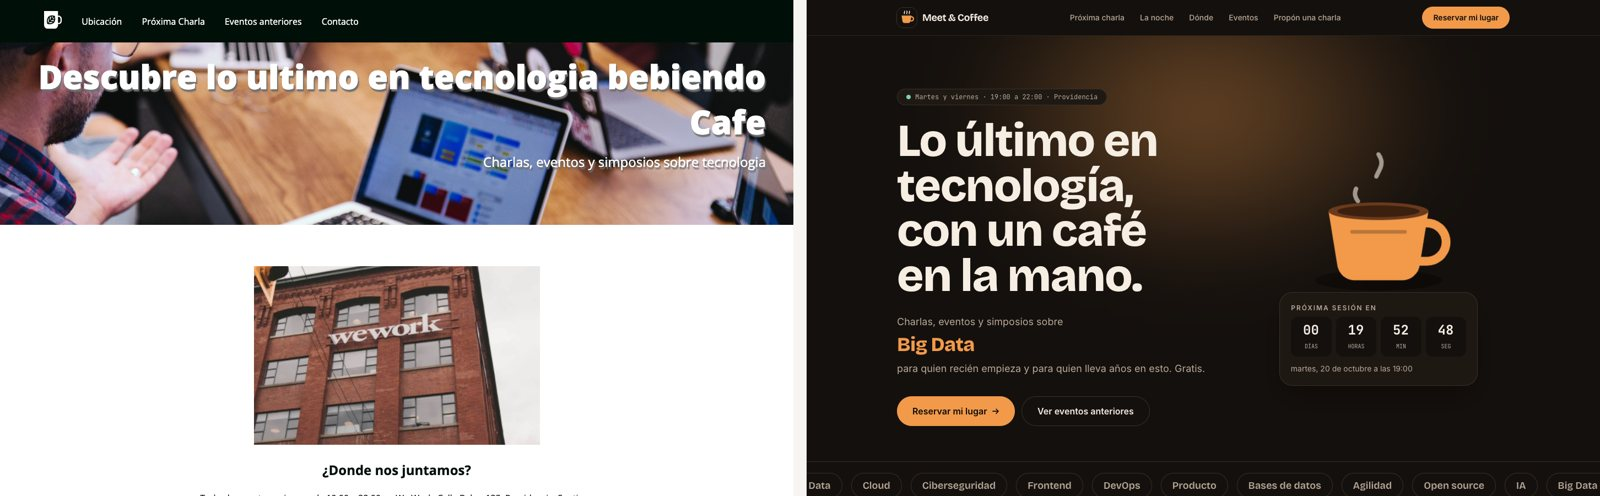
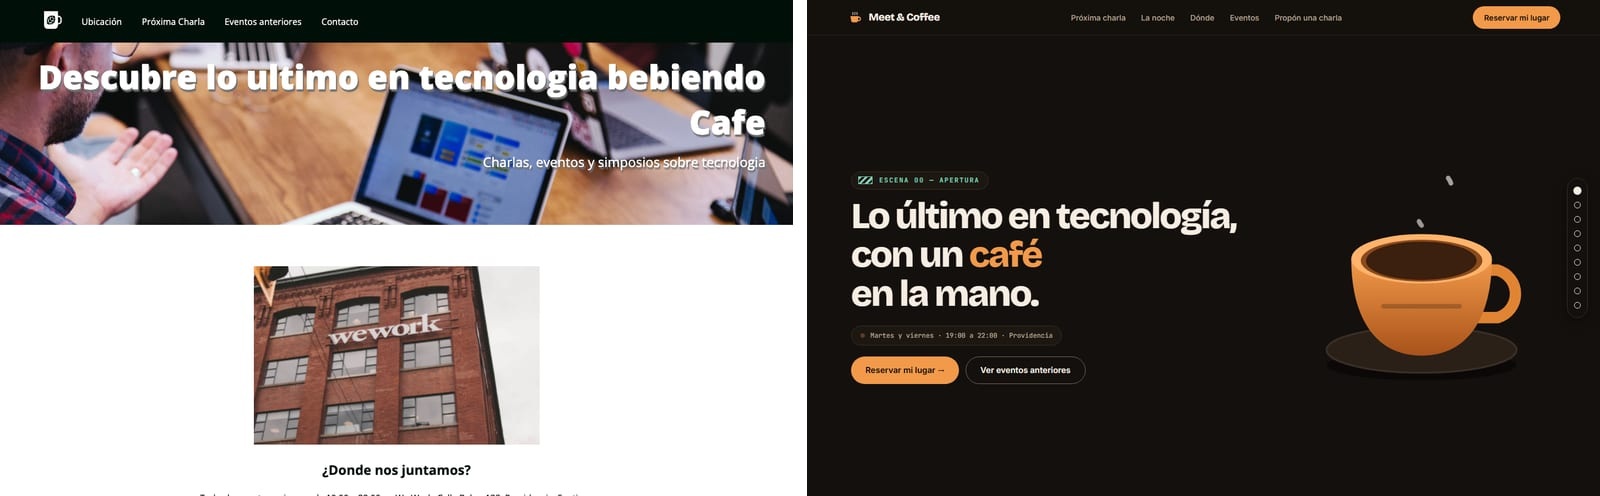
docs: actualiza capturas y readme del remake

diff --git a/README.md b/README.md
@@ -21,7 +21,7 @@ ONG ficticia de adopción de perros y gatos.
 
 ![Antes y después de Ayuda a un Peludo](docs/peludo-antes-despues.jpg)
 
-**Nuevo:** retratos ilustrados en SVG con animaciones, filtro de perros y gatos con transición, test "¿Qué peludo es para ti?", proceso de adopción que avanza al hacer scroll, preguntas frecuentes y formulario con validación.
+**Nuevo:** diez escenas a pantalla completa en vez de scroll, con elementos ancla que viajan entre ellas (View Transitions), textos que entran por máscaras, galería ficha por ficha con filtro de perros y gatos, test "¿Qué peludo es para ti?", pasos de la adopción, preguntas frecuentes con respuesta en panel fijo y formulario con validación.
 
 [Ver el sitio](https://mauricloudz.github.io/landing-remakes/ayuda-a-un-peludo/)
 
@@ -31,7 +31,7 @@ Comunidad ficticia de charlas de tecnología.
 
 ![Antes y después de Meet & Coffee](docs/meet-antes-despues.jpg)
 
-**Nuevo:** cuenta regresiva real a la próxima sesión en hora de Santiago, taza con vapor animado, carrusel de eventos con transición hacia cada detalle, una página por evento con contenido real, agenda de la noche y formulario para proponer charlas.
+**Nuevo:** nueve escenas a pantalla completa en vez de scroll, con una portada que se zambulle en la taza hasta la cuenta regresiva real (hora de Santiago), afiche de la próxima charla con entrada tipo ticket, agenda de la noche hora por hora con su programa, mapa con la dirección, eventos anteriores tarjeta por tarjeta con página de detalle y formulario para proponer charlas, con preguntas frecuentes en panel fijo en escritorio.
 
 [Ver el sitio](https://mauricloudz.github.io/landing-remakes/meet-and-coffee/)
 
@@ -39,16 +39,16 @@ Comunidad ficticia de charlas de tecnología.
 
 ## Métricas
 
-Medidas con Lighthouse 13.5 en su perfil móvil, sirviendo ambas versiones en local en las mismas condiciones.
+Medidas con Lighthouse en su perfil móvil (las versiones originales con la 13.5 y las nuevas con la 13.6), sirviendo ambas en local en las mismas condiciones.
 
 | | Peludo antes | Peludo después | Meet antes | Meet después |
 |---|---|---|---|---|
-| Rendimiento | 69 | **100** | 67 | **98** |
+| Rendimiento | 69 | **100** | 67 | **100** |
 | Accesibilidad | 78 | **100** | 89 | **100** |
 | Buenas prácticas | 96 | **100** | 96 | **100** |
 | SEO | 91 | **100** | 100 | **100** |
-| Carga del contenido principal | 6,8 s | **1,5 s** | 16,2 s | **2,0 s** |
-| Peso de la página | 1.025 KB | **111 KB** | 2.798 KB | **157 KB** |
+| Carga del contenido principal | 6,8 s | **0,9 s** | 16,2 s | **0,9 s** |
+| Peso de la página | 1.025 KB | **163 KB** | 2.798 KB | **172 KB** |
 | Ancho en un teléfono de 390 px | 481 px | **390 px** | 519 px | **390 px** |
 
 Los originales se desbordaban a lo ancho en el teléfono. Las versiones nuevas no.
@@ -56,8 +56,8 @@ Los originales se desbordaban a lo ancho en el teléfono. Las versiones nuevas n
 ## Decisiones
 
 - **Ilustraciones propias en vez de fotos de stock.** Todo es SVG hecho a medida: pesa casi nada y se puede animar.
-- **Animaciones que respetan el movimiento reducido.** Si el sistema lo pide, todo queda quieto. La barra de progreso y el parallax usan animaciones ligadas al scroll, sin JavaScript.
-- **Casi cero JavaScript.** Astro entrega HTML estático. El JavaScript se limita al filtro, el test, la cuenta regresiva, el comparador y los formularios.
+- **Movimiento en CSS, sin librerías.** Ayuda a un Peludo (diez escenas) y Meet & Coffee (nueve) pasan entre sus escenas a pantalla completa con la API de View Transitions. La galería (siete escenas) usa el mismo modelo: el marco del comparador se divide en dos teléfonos y vuelve a fundirse en el siguiente proyecto. Si el navegador no la soporta o el sistema pide movimiento reducido, la página se ve como una página normal.
+- **Poco JavaScript.** Astro entrega HTML estático. El JavaScript se limita al enrutador de Astro para las transiciones, el filtro, el test, la cuenta regresiva, el comparador, los formularios y un controlador de escenas pequeño en cada una de las tres páginas.
 - **Transiciones entre páginas** con la API de View Transitions.
 - **SEO completo:** metadatos, Open Graph, datos estructurados de schema.org, sitemap y URLs canónicas.
 
